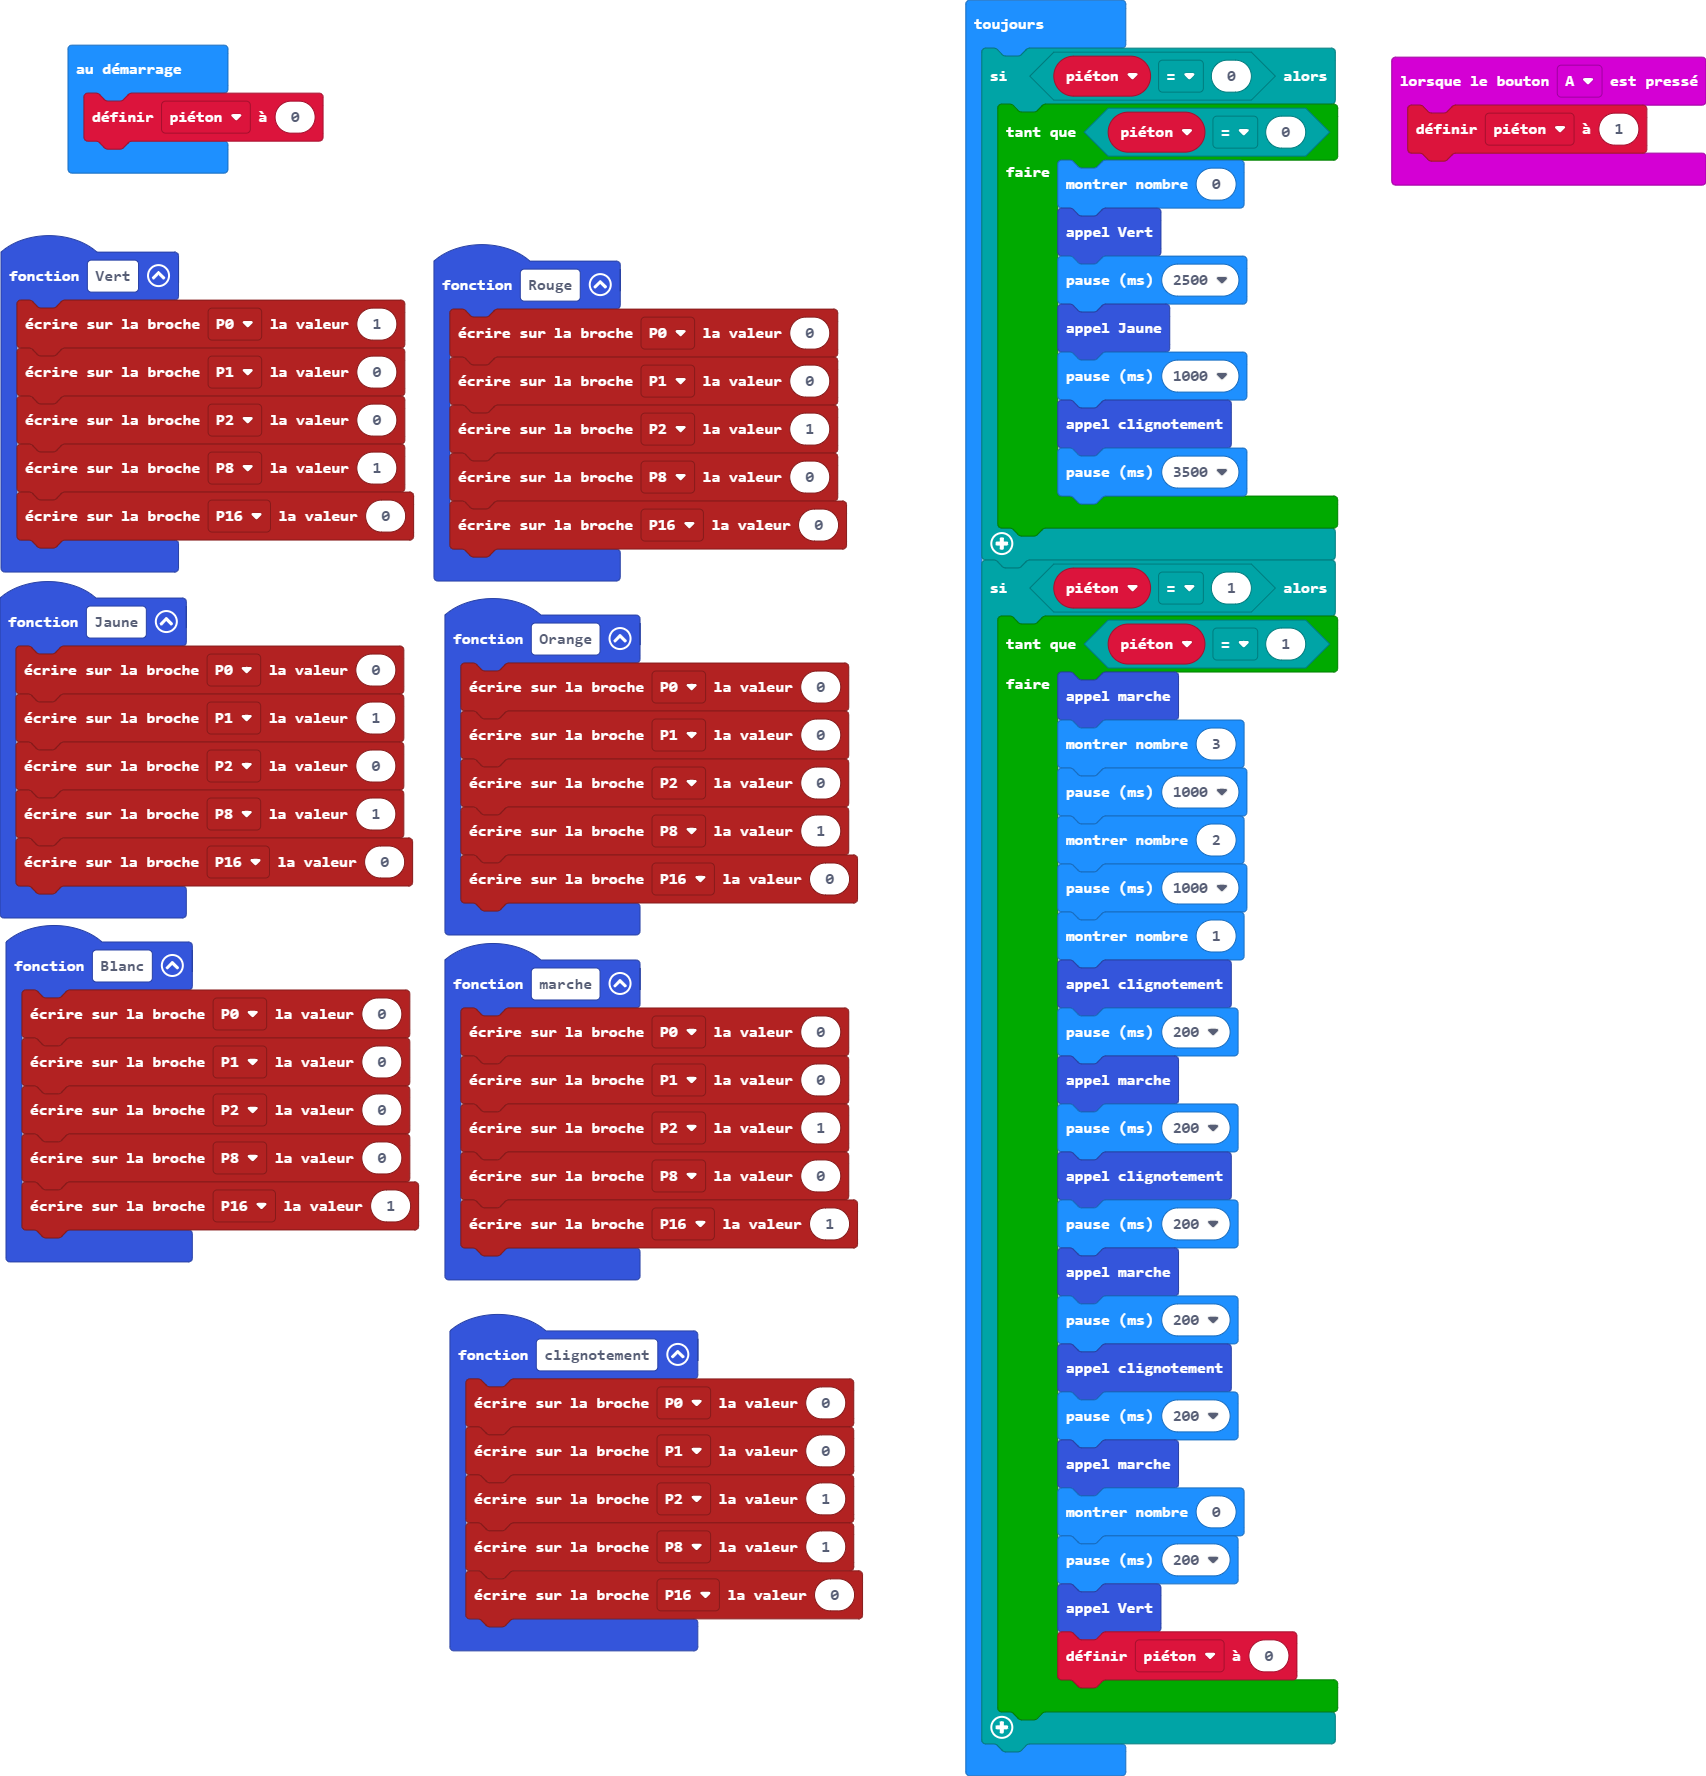
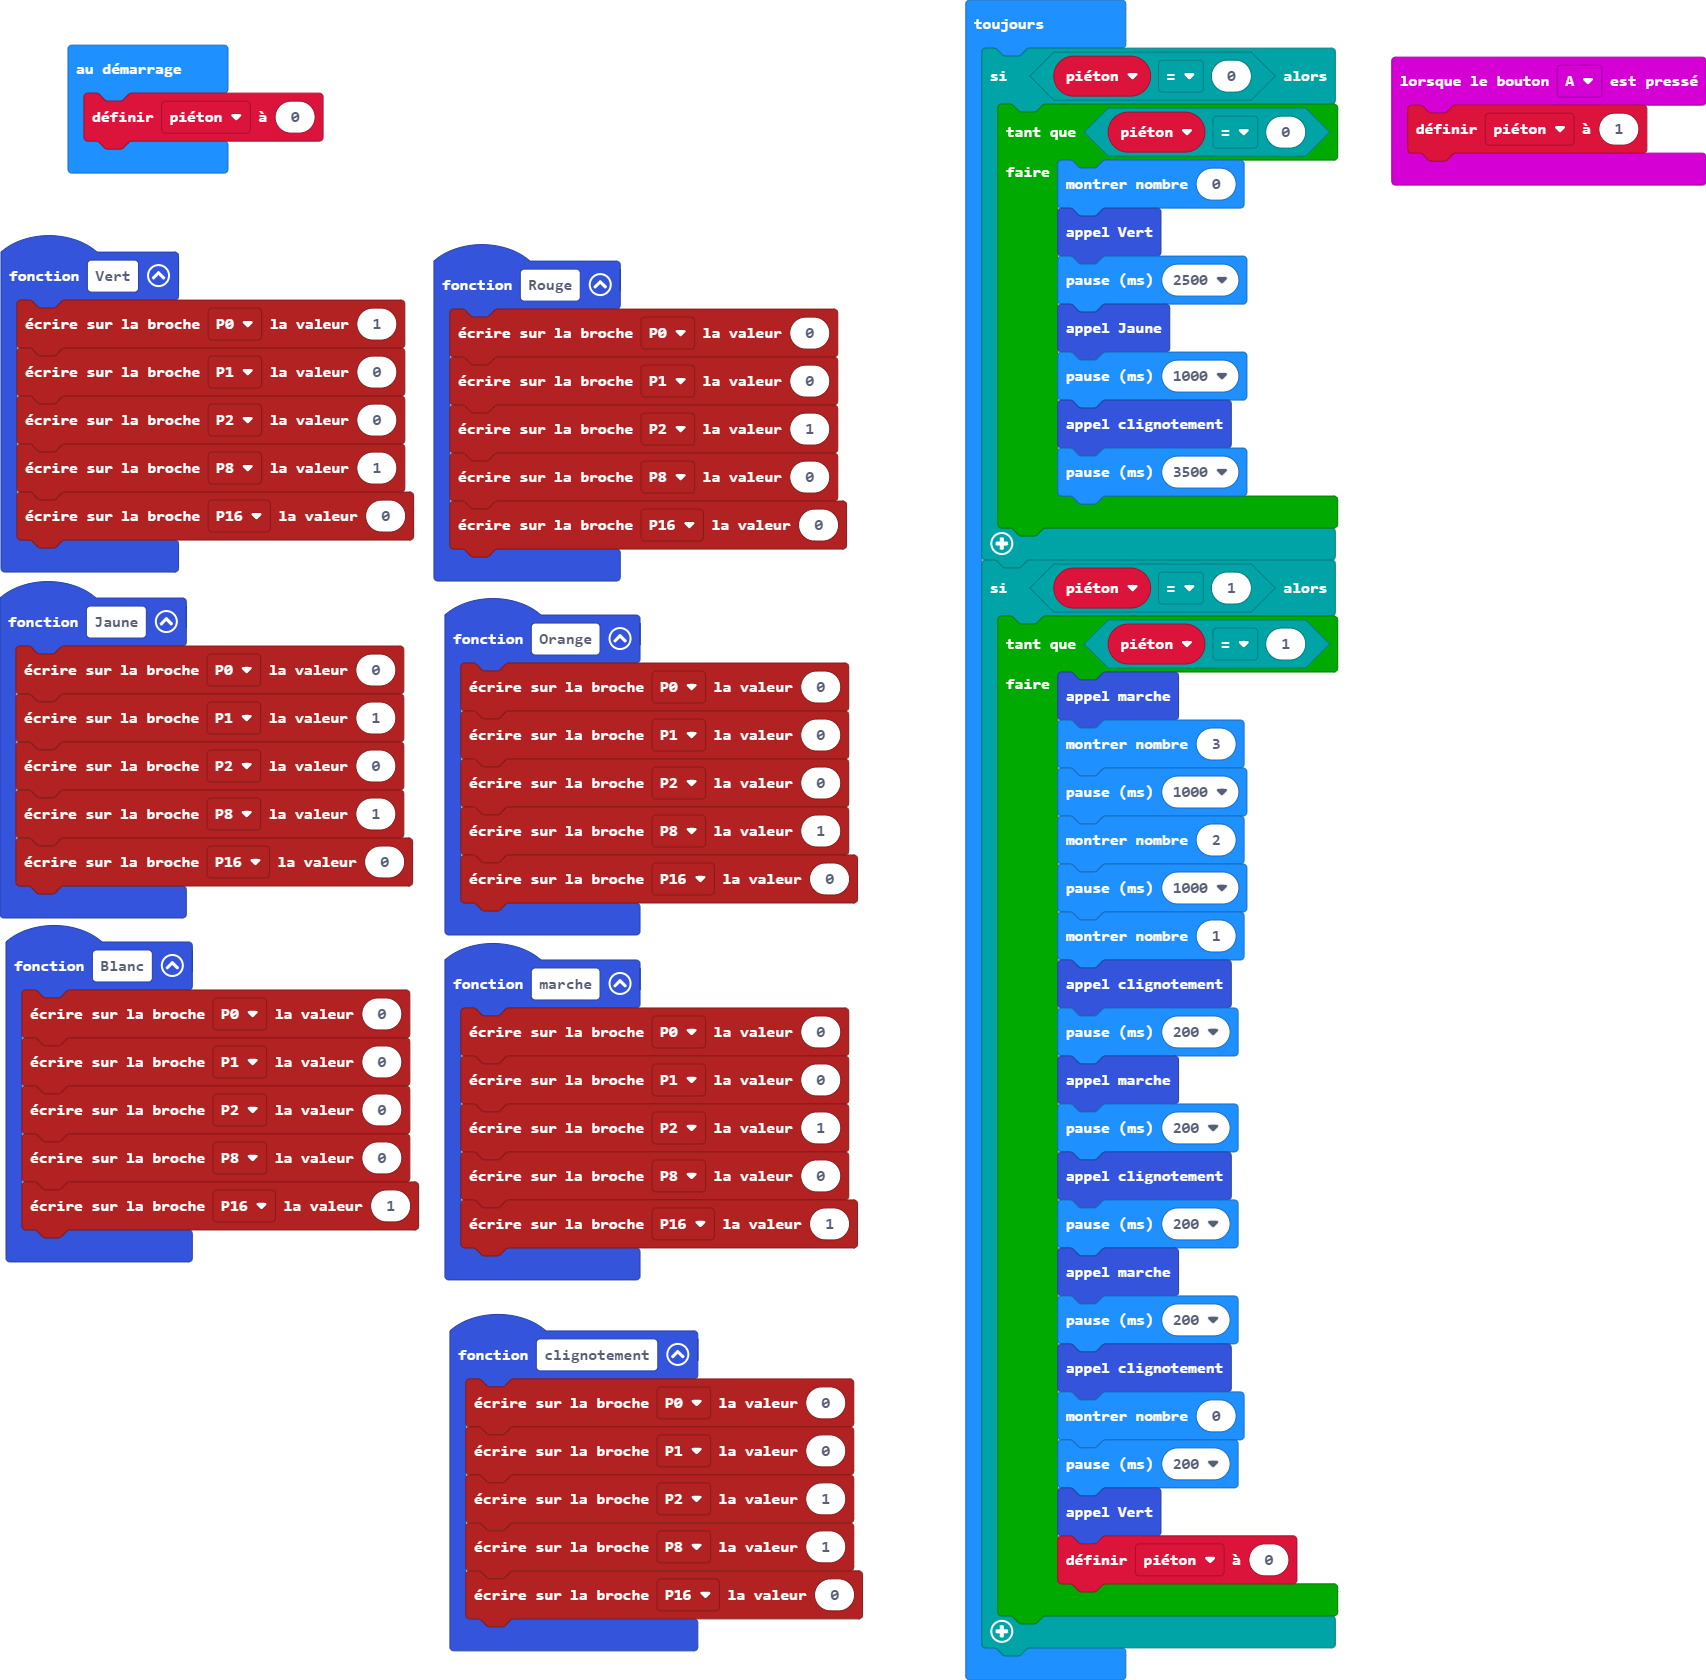
Mise à jour main.blocks, main.ts

Changed region(s): [[0.0, 0.031, 0.5281, 0.9905], [0.5592, 0.0, 0.8077, 0.9905], [0.8077, 0.031, 1.0, 0.1238]]

diff --git a/main.ts b/main.ts
@@ -81,8 +81,6 @@ basic.forever(function () {
             marche()
             basic.pause(200)
             clignotement()
-            basic.pause(200)
-            marche()
             basic.showNumber(0)
             basic.pause(200)
             Vert()
